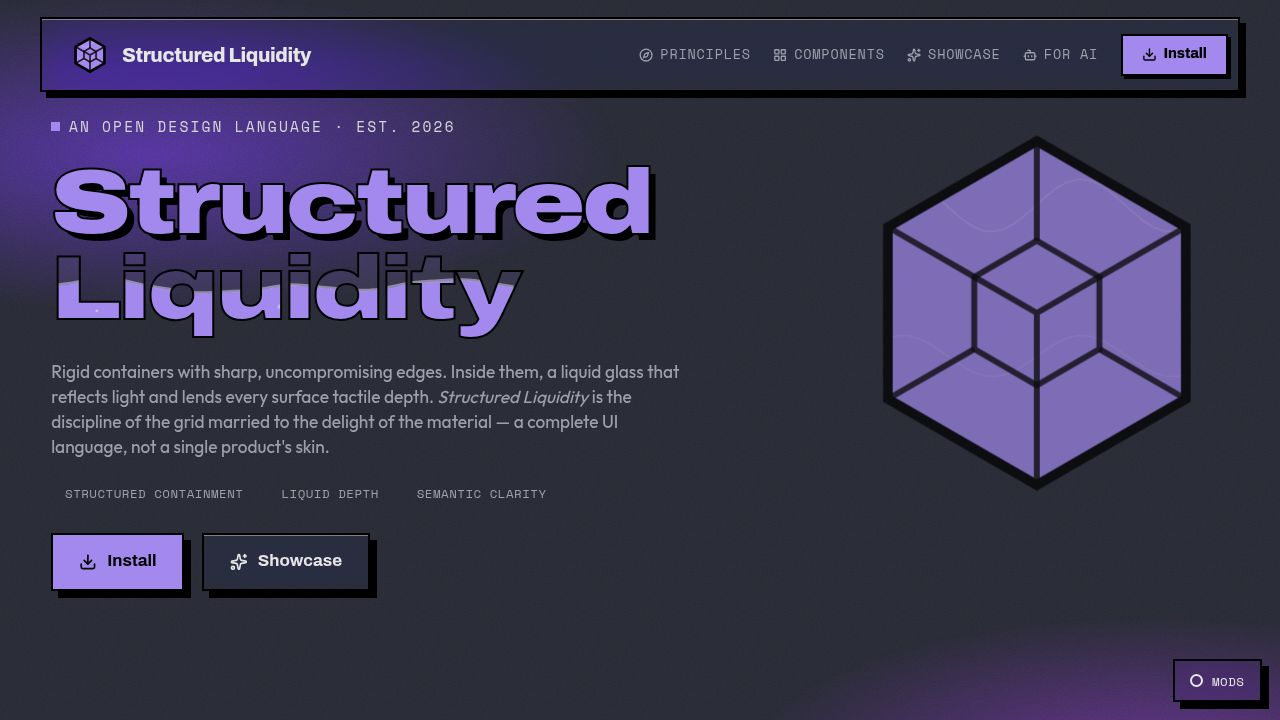
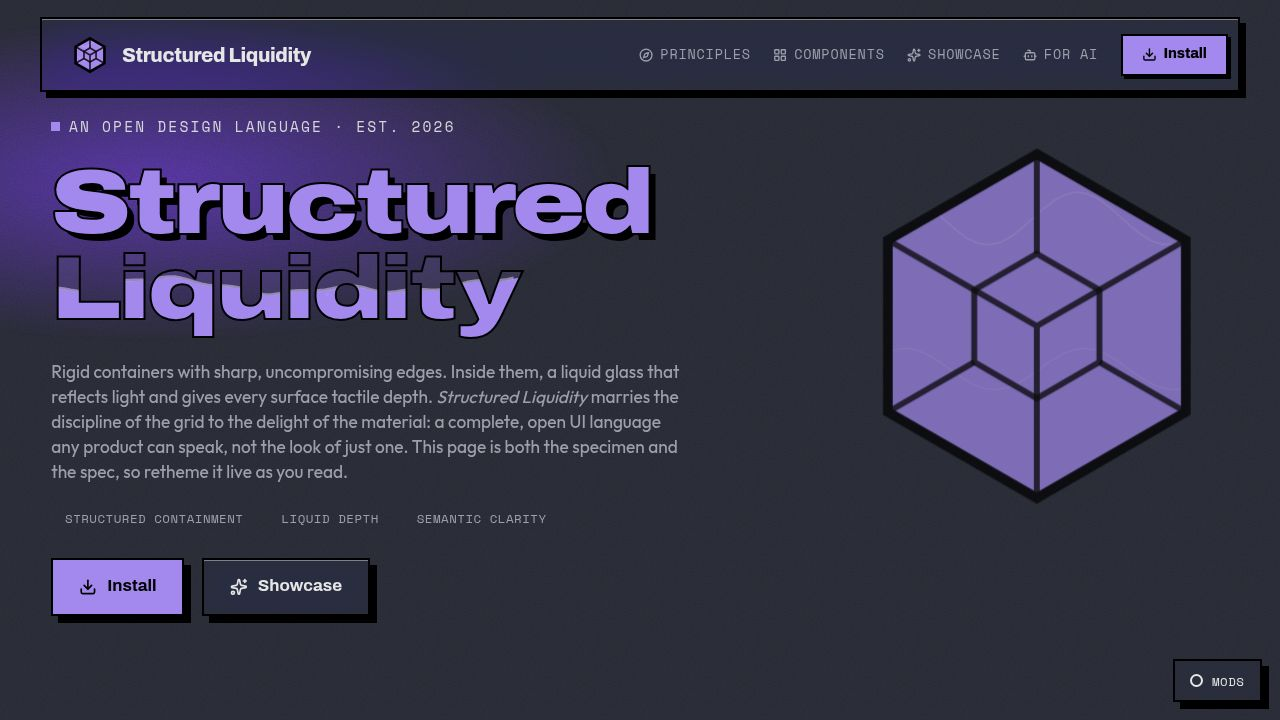
Published your App
Replit-Commit-Author: Deployment
Replit-Commit-Session-Id: b178ef2d-f94c-44e4-b67a-6c3292c8e793
Replit-Commit-Checkpoint-Type: full_checkpoint
Replit-Commit-Event-Id: 3a989460-7f0a-4b4a-a6c1-a03e295bde9d
Replit-Commit-Screenshot-Url: https://storage.googleapis.com/screenshot-production-us-central1/c4018417-fe8f-4fc7-a4f9-59c12b46444e/b178ef2d-f94c-44e4-b67a-6c3292c8e793/KKjyj9E
Replit-Commit-Deployment-Build-Id: 7806633f-f66c-448b-b3cd-a65fd659d04c
Replit-Helium-Checkpoint-Created: true

diff --git a/artifacts/structured-liquidity/index.html b/artifacts/structured-liquidity/index.html
@@ -234,6 +234,9 @@
      pure backdrop-blur). Give the menu the same frosted glass so it blends; the menu
      already declares the backdrop-filter the opaque fill was defeating. */
   [data-mode="light"] .sl-menu{background:linear-gradient(135deg, rgb(var(--glass-tint) / calc(var(--glass-alpha) + 0.06)), rgb(var(--glass-tint) / var(--glass-alpha)));}
+  /* Same fix for the context menu, which uses the same opaque fill but, unlike .sl-menu,
+     declares no backdrop-filter of its own, so the blur is added here too. */
+  [data-mode="light"] .sl-ctx-menu{background:linear-gradient(135deg, rgb(var(--glass-tint) / calc(var(--glass-alpha) + 0.06)), rgb(var(--glass-tint) / var(--glass-alpha)));backdrop-filter:blur(18px) saturate(180%);-webkit-backdrop-filter:blur(18px) saturate(180%);}
   .sl-menu .item.ac-empty{display:none;color:var(--ink-dim);cursor:default;}
   .sl-menu .item.ac-empty:hover{background:transparent;color:var(--ink-dim);}
   .lb-req{color:#ff7a90;margin-left:0.25rem;}